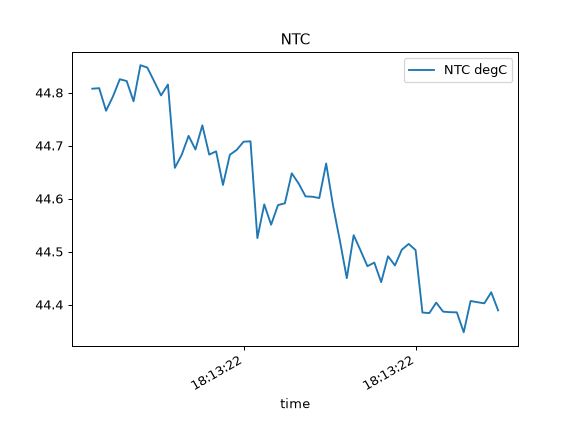
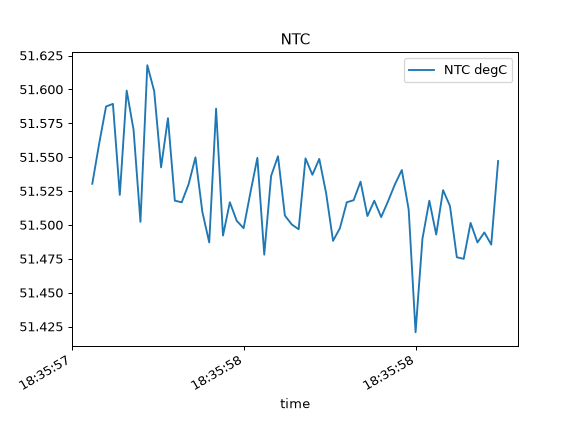
read() hung on a finite run, and then threw its records away
Asked for more records than a bounded run makes, `read()` spun forever:
three loops where one belongs - the first, then a `while len(out) < count`
around a `for ... break` - and once the generator returned, the while
called it again and again. Measured: `read(50)` on a 5-record run, still
going after 8 s.

One loop now, and `read_buffer()` ends when the run has. Getting THAT
right took three tries and each wrong one is worth naming:

  `done` alone            - true while the ring still holds what the run
                            made, so it returned 0 of 5
  done and available 0    - true the instant a read is in flight, so it
                            still returned 0 of 5
  and the host queue too,
  seen twice in a row     - a read in flight cannot survive two looks

Measured after: read(50) of a 5-record run gives 5 in 0.25 s, read(3)
gives 3, read(-1) gives 5. The done check is a round trip, so it is asked
only on the empty path and not oftener than DONE_EVERY.

Found by reading the code rather than by anything failing: no test asks a
finite run for more than it makes, and the stand-in's own suites never
did either.

Offline 1831 passed, 0 failed; test_structure 489. Examples run.

diff --git a/host/coaxial/rig.py b/host/coaxial/rig.py
@@ -242,6 +242,8 @@ class Coaxial63100(Acquisition):
         self._reader = None
         self._buffer_records = self.BUFFER_RECORDS
         self._history = []
+        self._asked_done = 0.0
+        self._done_seen = 0
         self._cursor = 0
         self._lost = 0
 
@@ -875,6 +877,10 @@ class Coaxial63100(Acquisition):
     #: of the link and several seconds of headroom at the other.
     BUFFER_RECORDS = 10000
 
+    #: How often an idle read asks whether a finite run has ended.
+    #: A round trip, so not on every turn of a 2 ms poll.
+    DONE_EVERY = 0.25
+
     def enable(self):
         """Power the analog front end for this session.
 
@@ -1164,11 +1170,10 @@ class Coaxial63100(Acquisition):
             out.extend(block)
             if count < 0 or len(out) >= count:
                 break
-        if count > 0:
-            while len(out) < count:
-                for block in self.read_buffer(-1):
-                    out.extend(block)
-                    break
+        # WHAT THERE IS, when a finite run ends first. This used to be three
+        # loops - the one above, then a `while len(out) < count` around a
+        # `for ... break` - and asking a 5-record run for 50 spun forever:
+        # the generator returned immediately and the while called it again.
         return out[:count] if count > 0 else out
 
     def read_buffer(self, count):
@@ -1187,6 +1192,7 @@ class Coaxial63100(Acquisition):
                            'reader on the link, and read_buffer() takes '
                            'what it has collected')
         seen = 0
+        self._done_seen = 0
         while count < 0 or seen < count:
             self._reader.raise_if_failed()
             block = self._reader.take()
@@ -1196,6 +1202,28 @@ class Coaxial63100(Acquisition):
                 continue
             if not self._reader.running:
                 return                    # the link is gone, or stopped
+            # A FINITE RUN THAT HAS ENDED AND DRAINED. Without this the
+            # reader keeps polling an empty ring and this never returns, so
+            # a caller asking for more records than the run makes waits for
+            # them forever. Asked only on the empty path and not oftener
+            # than `DONE_EVERY`, because it is a round trip.
+            now = time.time()
+            if now - self._asked_done > self.DONE_EVERY:
+                self._asked_done = now
+                state = self.state() or {}
+                # ENDED, EMPTY AT BOTH ENDS, AND STILL SO A MOMENT LATER.
+                # `done` alone comes true while the ring still holds what
+                # the run made. Even done-and-empty is not enough on its
+                # own: the reader may be mid-read, and returning on one
+                # look threw away every record - measured, a 5-record run
+                # answered 0 twice over. Two consecutive looks with a poll
+                # between them is what a read in flight cannot survive.
+                ended = (state.get('done')
+                         and not (state.get('available') or 0)
+                         and not len(self._reader))
+                self._done_seen = self._done_seen + 1 if ended else 0
+                if self._done_seen >= 2:
+                    return
             time.sleep(0.002)
 
     def blocks(self, count):
